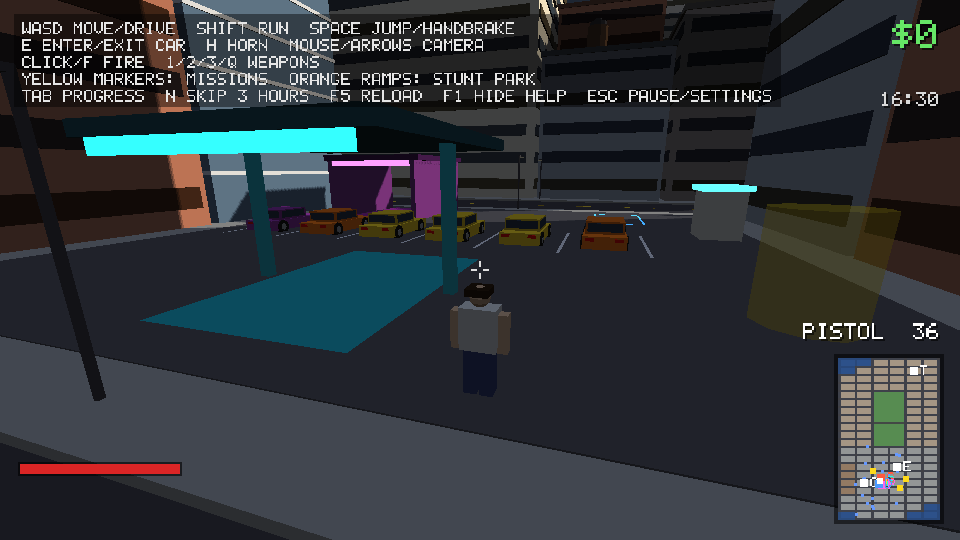
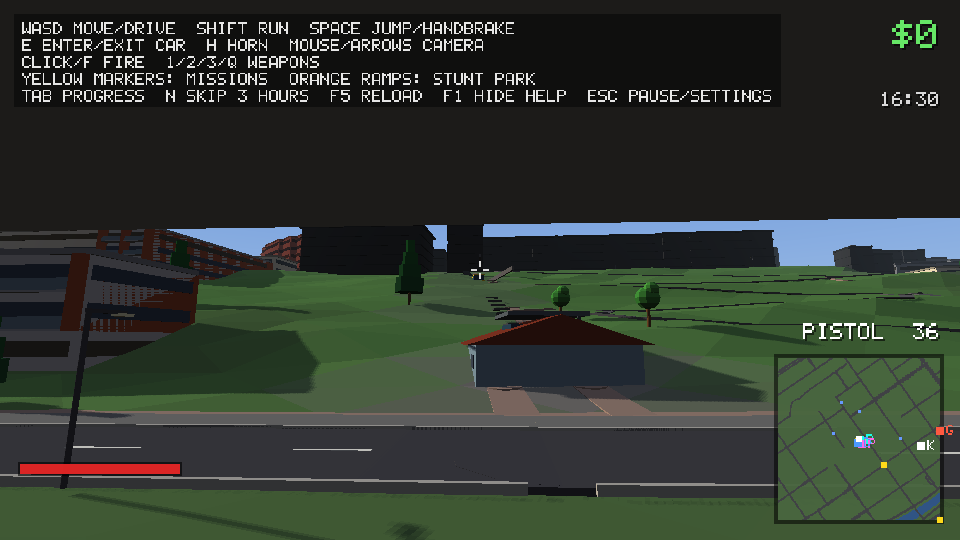
feat(turku): 500m visual slice for Turun linna (Castle) grounds and Port of Turku harbor

diff --git a/tools/test_harbor.py b/tools/test_harbor.py
@@ -1,0 +1,28 @@
+#!/usr/bin/env python3
+"""Automated tests for Turun linna (Turku Castle), S/S Bore museum ship, and harbor container berths."""
+import os
+from pathlib import Path
+import subprocess
+import unittest
+
+ROOT = Path(__file__).resolve().parent.parent
+BINARY = ROOT / "target" / "release" / ("auto.exe" if os.name == "nt" else "auto")
+
+
+class HarborTests(unittest.TestCase):
+    def test_turun_linna_and_harbor_slice(self):
+        env = os.environ.copy()
+        env["MAP"] = "turku"
+        env["SEED"] = "1337"
+        env["HARBOR_TEST"] = "1"
+        res = subprocess.run([str(BINARY), "game", "--headless", "30"], cwd=ROOT, env=env, capture_output=True, text=True)
+        self.assertEqual(res.returncode, 0, res.stdout + res.stderr)
+        self.assertIn("CASTLE_OK", res.stdout)
+        self.assertIn("BORE_SHIP_OK", res.stdout)
+        self.assertIn("PORT_CRANES_OK", res.stdout)
+        self.assertIn("CONTAINER_BERTHS_OK", res.stdout)
+        self.assertIn("ALL CASTLE AND HARBOR CHECKS PASSED", res.stdout)
+
+
+if __name__ == "__main__":
+    unittest.main()
